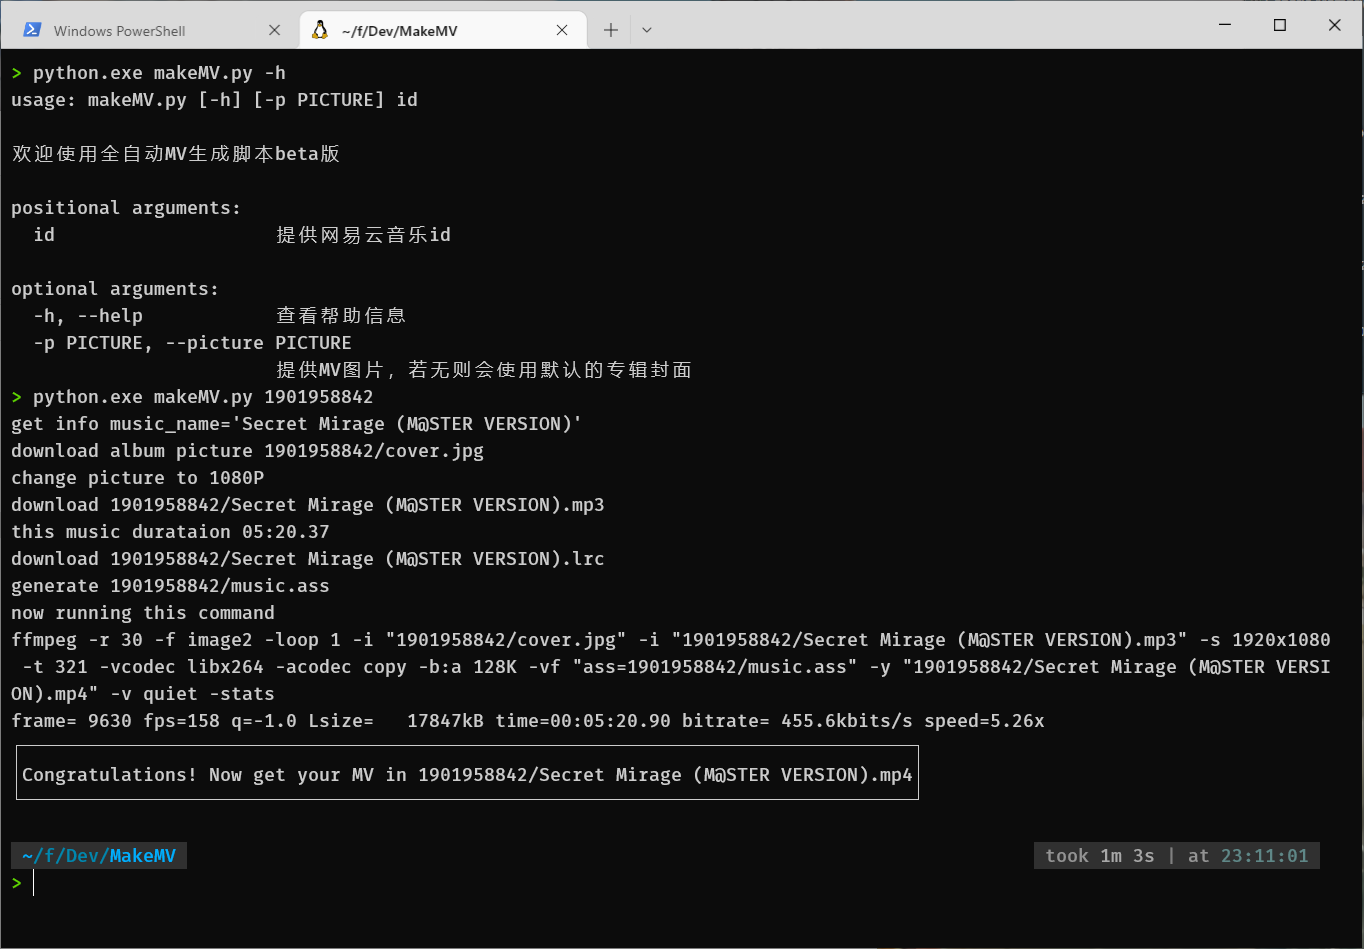
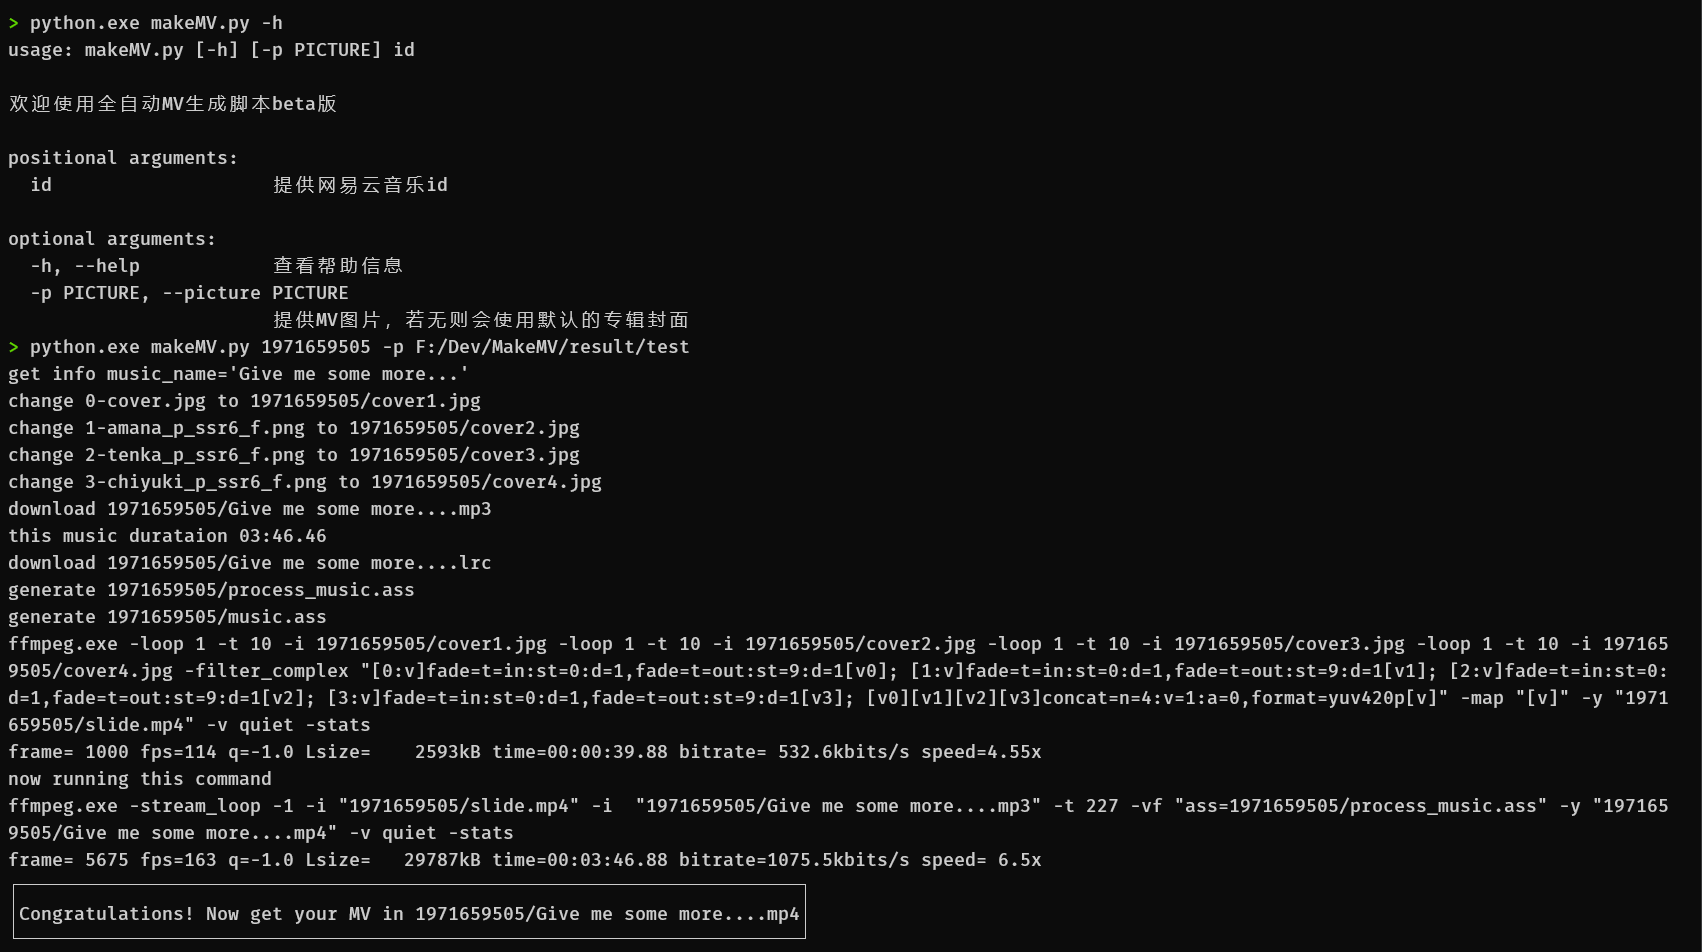
支持多图循环渐变视频与时间轴位移

diff --git a/makeMV.py b/makeMV.py
@@ -1,12 +1,20 @@
 import argparse
 import re
 import subprocess
+import os
 from os import makedirs
 
 import json
 import requests
 
-from utils import print_byformat, to1080P
+from utils import print_byformat, to1080P, isImage
+
+
+# TODO：重构代码，异常捕获 尝试最佳实践。分阶段、分异常类型进行捕获或者抛出自定义错误类型，在全局上捕获？
+
+# python.exe makeMV.py 1971659505
+# python.exe makeMV.py 1971659505 -p F:/Dev/MakeMV/result/test/2-tenka_p_ssr6_f.png
+# python.exe makeMV.py 1971659505 -p F:/Dev/MakeMV/result/test
 
 parser = argparse.ArgumentParser(description='欢迎使用全自动MV生成脚本beta版', add_help=False)
 parser.add_argument("-h", "--help", action="help", help="查看帮助信息")
@@ -38,7 +46,8 @@ makedirs(base_dir, exist_ok=True)
 # base_dir = mid+"/"
 
 # 下载album封面
-# TODO: 不支持jpeg?
+pictrue_flag = 0 # 单张图片
+pictrue_list = []
 if not args.picture:
     try:
         album_pic = info['songs'][0]['album']['picUrl']
@@ -50,21 +59,42 @@ if not args.picture:
             f.write(r.content)
         print(f'download album picture {pic_name}')
         origin_pic = pic_name
-
+        to1080P(origin_pic, pic_name)
+        print('change picture to 1080P')
     except Exception as e:
         print('no album_pic')
 else:
-    origin_pic = args.picture
-    pic_name = base_dir + 'cover.jpg'
-    # pic_name = args.picture
+    if os.path.exists(args.picture):
+        if os.path.isfile(args.picture): # 输入单张图片
+            # TODO 判断单张图片类型 捕获异常
+            origin_pic = args.picture
+            pic_name = base_dir + 'cover.jpg'
+            to1080P(origin_pic, pic_name)
+            print('change picture to 1080P')
+        elif os.path.isdir(args.picture): # 输入为路径时，遍历该路径下图片
+            pictrue_flag = 1 # 多张图片
+            pic_path = args.picture
+            num = 1
+            for file in os.listdir(pic_path):
+                if isImage(file):
+                    origin_pic = pic_path+'/'+file
+                    pic_name = base_dir + f'cover{num}.jpg'
+                    to1080P(origin_pic, pic_name)
+                    pictrue_list.append(pic_name)
+                    num += 1
+                    print(f'change {file} to {pic_name}')
+            pic_name = base_dir + 'cover%01d.jpg'
+    else:
+        print('图片路径不对')
+        exit(0)
 
 
-to1080P(origin_pic, pic_name)
-print('change picture to 1080P')
+
+
 
 # 下载音频
 # TODO：如何获取320K的音频
-# TODO: 有些歌无法下载，提供错误信息
+# TODO: 有些歌无法下载，提供错误信息 如4954431
 download_url = f"http://music.163.com/song/media/outer/url?id={mid}.mp3"
 music_file = base_dir + f'{music_name}.mp3'
 r = requests.get(download_url)
@@ -141,7 +171,6 @@ for line in data.split('\n'):
 
 
 # 生成ass字幕
-# TODO：平移时间轴
 # music_ass = f'{music_name}.ass'
 music_ass = base_dir + f'music.ass'
 f = open('ass_template.txt')
@@ -150,15 +179,17 @@ f.close()
 
 times.sort()
 num = 0
+st_list = []
+et_list = []
+content_list = []
+num_type_list = []
 with open(music_ass, 'w', encoding='utf-8') as f:
     f.write(ass_header)
     pretime = times[0]
-    # for ind in range(1,len(times)):
     for ind in range(1, len(times) + 1):
         num += 1
         num_type = "odd" if num % 2 == 1 else "even"
         start_time = pretime[1:-2]
-        # f2.write(str(ind) + "\n")
         # 用于处理最后一条歌词信息
         if ind == len(times):
             end_time = final_time
@@ -168,26 +199,83 @@ with open(music_ass, 'w', encoding='utf-8') as f:
         content = result[times[ind - 1]]
 
         line = f"Dialogue: 0,0:{start_time},0:{end_time},{num_type},,0,0,0,,{content}\n"
-        # print(line)
+        st_list.append(start_time)
+        et_list.append(end_time)
+        content_list.append(content)
+        num_type_list.append(num_type)
         f.write(line)
 
-    # lrc
-    # for t in times:
-    #     f.write(t + result[t] + "\n")
+# 处理时间轴
+from utils import forwardTime, backwardTime
+for ind in range(len(st_list)-1, 0, -1):
+    st = st_list[ind-1]
+    et = et_list[ind-1]
+    st_list[ind] = forwardTime(st, et)
+    et_list[ind] = backwardTime(et_list[ind])
 
+process_music_ass = base_dir + f'process_music.ass'
+with open(process_music_ass, 'w', encoding='utf-8') as f:
+    f.write(ass_header)
+    for i in range(len(st_list)):
+        start_time = st_list[i]
+        end_time = et_list[i]
+        num_type = num_type_list[i]
+        content = content_list[i]
+        line = f"Dialogue: 0,0:{start_time},0:{end_time},{num_type},,0,0,0,,{content}\n"
+        f.write(line)
+
+
+print(f'generate {process_music_ass}')
 print(f'generate {music_ass}')
-# print('please run the command next line to make MV')
-# # TODO：更高效率的制作一图流视频，如何制作多图循环视频
-# print(f'ffmpeg -r 30 -f image2 -loop 1 -i tenka_p_ssr6_f.png -i "{music_file}" -s 1920x1080 -t {video_time} -vcodec libx264 -acodec copy -b:a 128K  -y xxx.mp4')
-# print(f'ffmpeg -i xxx.mp4 -vf "ass={music_ass}" result.mp4')
+music_ass = process_music_ass
 
+
+# TODO：更高效率的制作一图流视频，视频帧率不用那么高？
 mv_file = base_dir + music_name + '.mp4'
-# cmd = f'ffmpeg -r 30 -f image2 -loop 1 -i "{pic_name}" -i "{music_file}" -s 1920x1080 -t {video_time} -vcodec libx264 -acodec copy -b:a 128K -vf "ass={music_ass}" -y "{mv_file}" '
-cmd = f'ffmpeg -r 30 -f image2 -loop 1 -i "{pic_name}" -i "{music_file}" -s 1920x1080 -t {video_time} -vcodec libx264 -acodec copy -b:a 128K -vf "ass={music_ass}" -y "{mv_file}" -v quiet -stats'
+
+
+
+if pictrue_flag==0:
+    cmd = f'ffmpeg -r 30 -f image2 -loop 1 -i "{pic_name}" -i "{music_file}" -s 1920x1080 -t {video_time} -vcodec libx264 -acodec copy -b:a 128K -vf "ass={music_ass}" -y "{mv_file}" -v quiet -stats'
+else:
+    # 不渐变
+    tmp_file = base_dir + 'slide' + '.mp4'
+    # cmd0 = f'ffmpeg -r 0.1 -f image2 -loop 1 -i "{pic_name}" -i "{music_file}" -r 30 -s 1920x1080 -t {video_time} -vcodec libx264 -acodec copy -b:a 128K -y "{tmp_file}" -v quiet -stats'
+    # print('now running this command')
+    # print(cmd0)
+    # subprocess.run(cmd0)
+    # cmd = f'ffmpeg -i {tmp_file} -vf "ass={music_ass}" -y "{mv_file}" -v quiet -stats'
+
+    # 生成渐变视频片段
+    cmd0 = 'ffmpeg.exe '
+    cmd_list = []
+    for num, pic_name in enumerate(pictrue_list):
+        cmd0 += f'-loop 1 -t 10 -i {pic_name} '
+        cmd_list.append(f'[{num}:v]fade=t=in:st=0:d=1,fade=t=out:st=9:d=1[v{num}]; ')
+    cmd0 += '-filter_complex "'
+    cmd_ = ''
+    for num in range(len(cmd_list)):
+        cmd0 += cmd_list[num]
+        cmd_ += f'[v{num}]'
+    cmd0 += cmd_
+    cmd0 += f'concat=n={num+1}:v=1:a=0,format=yuv420p[v]" -map "[v]" -y "{tmp_file}" -v quiet -stats'
+    print('now running this command')
+    print(cmd0)
+    subprocess.run(cmd0)
+
+    cmd = f'ffmpeg.exe -stream_loop -1 -i "{tmp_file}" -i  "{music_file}" -t {video_time} -vf "ass={music_ass}" -y "{mv_file}" -v quiet -stats'
+    # 'ffmpeg.exe \
+    # -stream_loop -1 -i slide.mp4 \
+    # -i "1971659505/Give me some more....mp3" \
+    # -vf "ass=1971659505/music.ass" \
+    # -shortest -map 0:v:0 -map 1:a:0 \
+    # -y tmp.mp4
+    # '
+
+
 print('now running this command')
 print(cmd)
 
-# TODO：异常处理?
 try:
     subprocess.run(cmd)
     content = f'Congratulations! Now get your MV in {mv_file}'

diff --git a/utils.py b/utils.py
@@ -1,5 +1,5 @@
 from PIL import Image
-
+from datetime import datetime, timedelta
 
 # TODO: 日文字符不等距..
 def print_byformat(content):
@@ -8,6 +8,31 @@ def print_byformat(content):
     print(content)
     print("└" + (len(content) - 2) * '─' + "┘")
 
+
+def forwardTime(st, et):
+    # 在上一行歌词中一半时显示
+    # et = "0:00:02.10"
+    # st = "0:00:03.60"
+    et = datetime.strptime(et, '%M:%S.%f')
+    st = datetime.strptime(st, '%M:%S.%f')
+    next_st = et + (st - et) / 2
+    next_st = next_st.strftime('%M:%S.%f')[1:-4]
+    return next_st
+
+def backwardTime(et):
+    # 显示延迟3毫秒
+    # et = "00:02.10"
+    et = datetime.strptime(et, '%M:%S.%f')
+    delay = timedelta(microseconds=300000)
+    next_et = et + delay
+    next_et = next_et.strftime('%M:%S.%f')[1:-4]
+    return next_et
+def isImage(pic_file:str):
+    format = ['jpg', 'jpeg', 'png', 'JPG', 'JPEG', 'PNG']
+    for ext in format:
+        if pic_file.endswith(ext):
+            return 1
+    return 0
 
 def pad_image(image, target_size):
     """

diff --git a/README.md b/README.md
@@ -4,16 +4,22 @@
 利用音乐平台的歌与歌词轴，指定图片或使用默认专辑封面生成MV，主要用于纯K投屏。
 （因为纯K投网易云音乐时，会没有歌词。。）
 
+MV效果如 [BILI](https://www.bilibili.com/video/BV1wv4y1o7JT)
+
+
 使用方法参考下图：
-![](pic/intro.png)
+![img.png](pic/intro.png)
+
 
 ```shell
 python makeMV.py -h
 
-python makeMV.py 1971659505
+python.exe makeMV.py 1971659505
 
 # windows下路径需要注意
-python makeMV.py 1988508925 -p F:/Dev/lrc2srt/cover.jpg
+python.exe makeMV.py 1971659505 -p F:/Dev/MakeMV/result/test/2-tenka_p_ssr6_f.png
+
+python.exe makeMV.py 1971659505 -p F:/Dev/MakeMV/result/test
 ```
 
 
@@ -26,12 +32,13 @@ requests
 
 ## TODO
 代码中备注的TODO为需要优化的点，主要有以下几点以及未来其他可能做的事
-- [ ] 平移时间轴（歌词提早显示和延迟结束）
+- [x] 平移时间轴（歌词提早显示和延迟结束）
 - [ ] 获取更高码率的音频、手动指定音频？
-- [ ] 支持多图切换显示
+- [x] 支持多图切换显示
 - [ ] 打包发行，减少对用户环境需求？
 
 ![img.png](pic/todo.png)
+
 
 ## 其他
 
